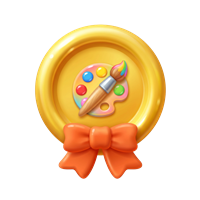
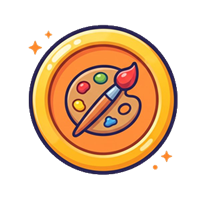
Use the smiling star, smiling flame and new bow-free badges
Points and streak use the glossy smiling star and flame; the eight badges and the
badge counter are redrawn as round glossy medals without bows, on every page.

diff --git a/forest.html b/forest.html
@@ -54,11 +54,11 @@ body { font-family: 'Thmanyah Sans', system-ui, sans-serif; color: #3A2318; }
 
 <span title="الوقت المتبقي اليوم" style="display: flex; align-items: center; gap: 6px; background: #FFFFFF; border-radius: 999px; padding: 0 14px; height: 46px; font-weight: 800; font-size: 18px; box-shadow: 0 4px 0 #B9DDA6; color: #2D6A12;"><img src="img/forest/I-10.png" alt="" style="width: 30px; height: 30px; margin: -4px 0;">35 د</span>
 
-<span title="النقاط" style="display: flex; align-items: center; gap: 6px; background: #FFFFFF; border-radius: 999px; padding: 0 14px; height: 46px; font-weight: 800; font-size: 18px; box-shadow: 0 4px 0 #B9DDA6; color: #3A2318;"><img src="img/forest/I-06.png" alt="" style="width: 30px; height: 30px; margin: -4px 0;">3,240</span>
+<span title="النقاط" style="display: flex; align-items: center; gap: 6px; background: #FFFFFF; border-radius: 999px; padding: 0 14px; height: 46px; font-weight: 800; font-size: 18px; box-shadow: 0 4px 0 #B9DDA6; color: #3A2318;"><img src="img/hud/points.png" alt="" style="width: 30px; height: 30px; margin: -4px 0;">3,240</span>
 
-<span title="أيام متتالية" style="display: flex; align-items: center; gap: 6px; background: #FFFFFF; border-radius: 999px; padding: 0 14px; height: 46px; font-weight: 800; font-size: 18px; box-shadow: 0 4px 0 #B9DDA6; color: #3A2318;"><img src="img/forest/I-07.png" alt="" style="width: 30px; height: 30px; margin: -4px 0;">5</span>
+<span title="أيام متتالية" style="display: flex; align-items: center; gap: 6px; background: #FFFFFF; border-radius: 999px; padding: 0 14px; height: 46px; font-weight: 800; font-size: 18px; box-shadow: 0 4px 0 #B9DDA6; color: #3A2318;"><img src="img/hud/streak.png" alt="" style="width: 30px; height: 30px; margin: -4px 0;">5</span>
 
-<span title="الشارات" style="display: flex; align-items: center; gap: 6px; background: #FFFFFF; border-radius: 999px; padding: 0 14px; height: 46px; font-weight: 800; font-size: 18px; box-shadow: 0 4px 0 #B9DDA6; color: #3A2318;"><img src="img/forest/S-01.png" alt="" style="width: 30px; height: 30px; margin: -4px 0;">12</span>
+<span title="الشارات" style="display: flex; align-items: center; gap: 6px; background: #FFFFFF; border-radius: 999px; padding: 0 14px; height: 46px; font-weight: 800; font-size: 18px; box-shadow: 0 4px 0 #B9DDA6; color: #3A2318;"><img src="img/hud/badge.png" alt="" style="width: 30px; height: 30px; margin: -4px 0;">12</span>
 
 </div>
 </header>

diff --git a/leaders.html b/leaders.html
@@ -88,13 +88,13 @@
   const MEDAL = ['#F2A900', '#A7B1BD', '#D0874A'];
   const top = (p, i) => `<div class="top card ${['first', 'second', 'third'][i]}" style="--m:${MEDAL[i]}">
     <span class="face"><img src="img/avatars/${p.avatar}.png" alt=""><span aria-label="المركز ${ar(p.rank)}">${ar(p.rank)}</span></span>
-    <b>${p.name}</b><span class="xp"><img src="img/I-06.png" alt="">${num(p.xp)}</span>
+    <b>${p.name}</b><span class="xp"><img src="img/hud/points.png" alt="">${num(p.xp)}</span>
     <img class="bdg" src="img/badges/${p.badge}.png" alt="شارة ${badge(p.badge)}"></div>`;
   // read in order 1, 2, 3; shown right to left as second, first, third
   const mine = { rank: ME_RANK, name: me.name, avatar: me.avatar, xp: me.xp, badge: 'S-06' };
   document.getElementById('podium').innerHTML = LEADERS.slice(0, 3).map((p, i) => top(p.rank === ME_RANK ? mine : p, i)).join('');
   const row = (p, mine) => `<li class="${mine ? 'me' : ''}" ${mine ? 'aria-current="true"' : ''}><span class="n">${ar(p.rank)}</span><img class="av" src="img/avatars/${p.avatar}.png" alt="">
-    <b>${p.name}</b><span class="xp"><img src="img/I-06.png" alt="">${num(p.xp)}</span>${p.badge ? `<img class="bdg" src="img/badges/${p.badge}.png" alt="شارة ${badge(p.badge)}">` : '<span></span>'}</li>`;
+    <b>${p.name}</b><span class="xp"><img src="img/hud/points.png" alt="">${num(p.xp)}</span>${p.badge ? `<img class="bdg" src="img/badges/${p.badge}.png" alt="شارة ${badge(p.badge)}">` : '<span></span>'}</li>`;
   // the top ten, then the child's own place with the one just above when it is further down; a child in the top ten is lit in place
   const top10 = LEADERS.slice(3, 10).map((p) => (p.rank === ME_RANK ? row(mine, true) : row(p))).join('');
   const below = ME_RANK > 10 ? `${ME_RANK > 11 ? '<li class="gap" aria-hidden="true">…</li>' : ''}${LEADERS[ME_RANK - 2] && ME_RANK > 11 ? row(LEADERS[ME_RANK - 2]) : ''}${row(mine, true)}` : '';

diff --git a/value.html b/value.html
@@ -127,8 +127,8 @@ main { position: relative; z-index: 2; margin: -30px 0 0; padding: 0 80px 150px;
     <a class="pill back" href="garden.html"><svg width="22" height="22" viewBox="0 0 24 24" fill="none" stroke="currentColor" stroke-width="2.6" stroke-linecap="round" stroke-linejoin="round" aria-hidden="true"><path d="M9 6l6 6-6 6"/></svg><span>حديقة القيم</span></a>
     <div class="stats">
       <span class="pill" title="الوقت المتبقي اليوم" style="color:#2D6A12"><img src="img/forest/I-10.png" alt="">35 د</span>
-      <span class="pill" title="النقاط"><img src="img/forest/I-06.png" alt="">3,240</span>
-      <span class="pill" title="الشارات"><img src="img/forest/S-01.png" alt="">6</span>
+      <span class="pill" title="النقاط"><img src="img/hud/points.png" alt="">3,240</span>
+      <span class="pill" title="الشارات"><img src="img/hud/badge.png" alt="">6</span>
     </div>
   </div>
   <div class="head"><span class="kicker">رحلة قيمة مع نور</span><h1 id="title"></h1><p id="about"></p></div>
@@ -208,7 +208,7 @@ main { position: relative; z-index: 2; margin: -30px 0 0; padding: 0 80px 150px;
     $('party-t').textContent = `أزهرت شجرة ${v.name}!`;
     $('party-p').textContent = v.done;
     // XP and the badge come from gamification when completing a value is eligible
-    $('gains').innerHTML = `<span class="gain"><img src="img/forest/I-06.png" alt="">+${ar(XP)} نقطة</span>${v.badge ? `<span class="gain"><img src="img/forest/S-01.png" alt="">شارة جديدة: ${v.badge}</span>` : ''}`;
+    $('gains').innerHTML = `<span class="gain"><img src="img/hud/points.png" alt="">+${ar(XP)} نقطة</span>${v.badge ? `<span class="gain"><img src="img/hud/badge.png" alt="">شارة جديدة: ${v.badge}</span>` : ''}`;
     $('party').hidden = false; $('party-x').focus();
     window.Sfx?.play('win'); burst();
   }

diff --git a/room.html b/room.html
@@ -196,8 +196,8 @@ dialog input[type=text]:focus { outline: none; border-color: var(--accent); }
     $('nums').innerHTML = `<div class="num card"><span class="k"><img src="img/I-08.png" alt="">المستوى ${ar(me.level)}</span>
         <span class="lvl-bar" role="progressbar" aria-valuemin="0" aria-valuemax="100" aria-valuenow="${pct}" aria-label="التقدم نحو المستوى ${ar(me.level + 1)}"><i style="width:${pct}%"></i></span>
         <small>باقي ${num(me.to - me.xp)} نقطة للوصول إلى المستوى ${ar(me.level + 1)}</small></div>
-      <div class="num card"><span class="k"><img src="img/I-06.png" alt="">مجموع نقاطي</span><span class="v">${num(me.xp)}</span></div>
-      <div class="num card"><span class="k"><img src="img/I-07.png" alt="">أيام متتالية</span><span class="v">${ar(me.streak)}</span></div>`;
+      <div class="num card"><span class="k"><img src="img/hud/points.png" alt="">مجموع نقاطي</span><span class="v">${num(me.xp)}</span></div>
+      <div class="num card"><span class="k"><img src="img/hud/streak.png" alt="">أيام متتالية</span><span class="v">${ar(me.streak)}</span></div>`;
     const got = BADGES.filter((b) => b.got).length;
     $('badges-t').textContent = `شاراتي (${ar(got)} من ${ar(BADGES.length)})`;
     $('badges').innerHTML = BADGES.map((b) => `<div class="badge card ${b.got ? '' : 'no'}"><img src="img/badges/${b.id}.png" alt="">

diff --git a/beach.html b/beach.html
@@ -101,9 +101,9 @@ main { position: relative; z-index: 2; margin: -30px 0 0; padding: 0 80px 150px;
     <a class="pill back" href="index.html"><svg width="22" height="22" viewBox="0 0 24 24" fill="none" stroke="currentColor" stroke-width="2.6" stroke-linecap="round" stroke-linejoin="round" aria-hidden="true"><path d="M9 6l6 6-6 6"/></svg><span>العودة إلى الخريطة</span></a>
     <div class="stats">
       <span class="pill" title="الوقت المتبقي اليوم" style="color:#2D6A12"><img src="img/forest/I-10.png" alt="">35 د</span>
-      <span class="pill" title="النقاط"><img src="img/forest/I-06.png" alt="">3,240</span>
-      <span class="pill" title="أيام متتالية"><img src="img/forest/I-07.png" alt="">5</span>
-      <span class="pill" title="الشارات"><img src="img/forest/S-01.png" alt="">6</span>
+      <span class="pill" title="النقاط"><img src="img/hud/points.png" alt="">3,240</span>
+      <span class="pill" title="أيام متتالية"><img src="img/hud/streak.png" alt="">5</span>
+      <span class="pill" title="الشارات"><img src="img/hud/badge.png" alt="">6</span>
     </div>
   </div>
   <img class="isle" src="img/beach.png" alt="السلحفاة سلمى على جزيرة شاطئ الحكايات">

diff --git a/quran.html b/quran.html
@@ -97,9 +97,9 @@ main { position: relative; z-index: 2; margin: -30px 0 0; padding: 0 80px 150px;
     <a class="pill back" href="index.html"><svg width="22" height="22" viewBox="0 0 24 24" fill="none" stroke="currentColor" stroke-width="2.6" stroke-linecap="round" stroke-linejoin="round" aria-hidden="true"><path d="M9 6l6 6-6 6"/></svg><span>العودة إلى الخريطة</span></a>
     <div class="stats">
       <span class="pill" title="الوقت المتبقي اليوم" style="color:#2D6A12"><img src="img/forest/I-10.png" alt="">35 د</span>
-      <span class="pill" title="النقاط"><img src="img/forest/I-06.png" alt="">3,240</span>
-      <span class="pill" title="أيام متتالية"><img src="img/forest/I-07.png" alt="">5</span>
-      <span class="pill" title="الشارات"><img src="img/forest/S-01.png" alt="">6</span>
+      <span class="pill" title="النقاط"><img src="img/hud/points.png" alt="">3,240</span>
+      <span class="pill" title="أيام متتالية"><img src="img/hud/streak.png" alt="">5</span>
+      <span class="pill" title="الشارات"><img src="img/hud/badge.png" alt="">6</span>
     </div>
   </div>
   <img class="isle" src="img/quran.png" alt="مصحف على حامل خشبي في واحة القرآن">

diff --git a/oasis.html b/oasis.html
@@ -99,9 +99,9 @@ main { position: relative; z-index: 2; margin: -30px 0 0; padding: 0 80px 150px;
     <a class="pill back" href="index.html"><svg width="22" height="22" viewBox="0 0 24 24" fill="none" stroke="currentColor" stroke-width="2.6" stroke-linecap="round" stroke-linejoin="round" aria-hidden="true"><path d="M9 6l6 6-6 6"/></svg><span>العودة إلى الخريطة</span></a>
     <div class="stats">
       <span class="pill" title="الوقت المتبقي اليوم" style="color:#2D6A12"><img src="img/forest/I-10.png" alt="">35 د</span>
-      <span class="pill" title="النقاط"><img src="img/forest/I-06.png" alt="">3,240</span>
-      <span class="pill" title="أيام متتالية"><img src="img/forest/I-07.png" alt="">5</span>
-      <span class="pill" title="الشارات"><img src="img/forest/S-01.png" alt="">6</span>
+      <span class="pill" title="النقاط"><img src="img/hud/points.png" alt="">3,240</span>
+      <span class="pill" title="أيام متتالية"><img src="img/hud/streak.png" alt="">5</span>
+      <span class="pill" title="الشارات"><img src="img/hud/badge.png" alt="">6</span>
     </div>
   </div>
   <img class="isle" src="img/letters.png" alt="الجمل جمّول في واحة الحروف">

diff --git a/colors.html b/colors.html
@@ -114,9 +114,9 @@ h2.sec small { font-size: 17px; font-weight: 700; color: var(--ink-soft); }
     <a class="pill back" href="index.html"><svg width="22" height="22" viewBox="0 0 24 24" fill="none" stroke="currentColor" stroke-width="2.6" stroke-linecap="round" stroke-linejoin="round" aria-hidden="true"><path d="M9 6l6 6-6 6"/></svg><span>العودة إلى الخريطة</span></a>
     <div class="stats">
       <span class="pill" title="الوقت المتبقي اليوم" style="color:#2D6A12"><img src="img/forest/I-10.png" alt="">35 د</span>
-      <span class="pill" title="النقاط"><img src="img/forest/I-06.png" alt="">3,240</span>
-      <span class="pill" title="أيام متتالية"><img src="img/forest/I-07.png" alt="">5</span>
-      <span class="pill" title="الشارات"><img src="img/forest/S-01.png" alt="">6</span>
+      <span class="pill" title="النقاط"><img src="img/hud/points.png" alt="">3,240</span>
+      <span class="pill" title="أيام متتالية"><img src="img/hud/streak.png" alt="">5</span>
+      <span class="pill" title="الشارات"><img src="img/hud/badge.png" alt="">6</span>
     </div>
   </div>
   <img class="isle" src="img/colors.png" alt="القطة مشمش في وادي الألوان">

diff --git a/games.html b/games.html
@@ -161,9 +161,9 @@ h2.sec { margin: 0 0 14px; font-size: 30px; font-weight: 800; }
     <a class="pill back" href="index.html"><svg width="22" height="22" viewBox="0 0 24 24" fill="none" stroke="currentColor" stroke-width="2.6" stroke-linecap="round" stroke-linejoin="round" aria-hidden="true"><path d="M9 6l6 6-6 6"/></svg><span>العودة إلى الخريطة</span></a>
     <div class="stats">
       <span class="pill" title="الوقت المتبقي اليوم" style="color:#2D6A12"><img src="img/forest/I-10.png" alt="">35 د</span>
-      <span class="pill" title="النقاط"><img src="img/forest/I-06.png" alt="">3,240</span>
-      <span class="pill" title="أيام متتالية"><img src="img/forest/I-07.png" alt="">5</span>
-      <span class="pill" title="الشارات"><img src="img/forest/S-01.png" alt="">6</span>
+      <span class="pill" title="النقاط"><img src="img/hud/points.png" alt="">3,240</span>
+      <span class="pill" title="أيام متتالية"><img src="img/hud/streak.png" alt="">5</span>
+      <span class="pill" title="الشارات"><img src="img/hud/badge.png" alt="">6</span>
     </div>
   </div>
   <img class="isle" src="img/games.png" alt="الثعلب فنّوش في كثبان الألعاب">

diff --git a/garden.html b/garden.html
@@ -111,9 +111,9 @@ main { position: relative; z-index: 2; margin: -40px 0 0; padding: 0 80px 150px;
     <a class="pill back" href="index.html"><svg width="22" height="22" viewBox="0 0 24 24" fill="none" stroke="currentColor" stroke-width="2.6" stroke-linecap="round" stroke-linejoin="round" aria-hidden="true"><path d="M9 6l6 6-6 6"/></svg><span>العودة إلى الخريطة</span></a>
     <div class="stats">
       <span class="pill" title="الوقت المتبقي اليوم" style="color:#2D6A12"><img src="img/forest/I-10.png" alt="">35 د</span>
-      <span class="pill" title="النقاط"><img src="img/forest/I-06.png" alt="">3,240</span>
-      <span class="pill" title="أيام متتالية"><img src="img/forest/I-07.png" alt="">5</span>
-      <span class="pill" title="الشارات"><img src="img/forest/S-01.png" alt="">6</span>
+      <span class="pill" title="النقاط"><img src="img/hud/points.png" alt="">3,240</span>
+      <span class="pill" title="أيام متتالية"><img src="img/hud/streak.png" alt="">5</span>
+      <span class="pill" title="الشارات"><img src="img/hud/badge.png" alt="">6</span>
     </div>
   </div>
   <img class="isle" src="img/garden.png" alt="نور في حديقة القيم">

diff --git a/index.html b/index.html
@@ -179,9 +179,9 @@ button:focus-visible, a:focus-visible { outline: 3px solid var(--ink); outline-o
     <button type="button" class="pill me" id="me" aria-label="غرفتي: يوسف، المستوى 7"><img src="img/avatar.png" alt=""><span class="name">يوسف</span><span class="lvl"><img src="img/I-08.png" alt="">مستوى 7</span></button>
     <div class="stats">
       <button type="button" class="pill search" aria-label="ابحث"><img src="img/I-05.png" alt=""></button>
-      <span class="pill" title="النقاط"><img src="img/I-06.png" alt="">3,240</span>
-      <span class="pill" title="أيام متتالية"><img src="img/I-07.png" alt="">5</span>
-      <span class="pill" title="الشارات"><img src="img/badge.png" alt="">6</span>
+      <span class="pill" title="النقاط"><img src="img/hud/points.png" alt="">3,240</span>
+      <span class="pill" title="أيام متتالية"><img src="img/hud/streak.png" alt="">5</span>
+      <span class="pill" title="الشارات"><img src="img/hud/badge.png" alt="">6</span>
       <button type="button" class="pill bell" aria-label="الإشعارات، 3 غير مقروءة"><img src="img/I-09.png" alt=""><b>3</b></button>
     </div>
   </div>

diff --git a/quiz.html b/quiz.html
@@ -184,7 +184,7 @@
     panel.innerHTML = `<img class="falcon" src="img/peak/${r.right >= Math.ceil(r.of / 2) ? 'f-trophy' : 'f-wave'}.png" alt="">
       <h2>${late ? 'أرسلنا إجاباتك التي اخترتها قبل أن تخرج' : !fresh ? 'نتيجتك في هذه المسابقة' : r.right ? 'أحسنت يا يوسف! وصلت إجاباتك' : 'شكراً لمشاركتك يا يوسف!'}</h2>
       <div class="score"><b>${ar(r.score)}</b> من ١٠٠</div>
-      <div class="facts"><span>✓ ${ar(r.right)} من ${ar(r.of)} إجابات صحيحة</span>${fresh ? `<span class="gain"><img src="img/forest/I-06.png" alt="">+${ar(XP)} نقاط للمشاركة</span>` : ''}</div>
+      <div class="facts"><span>✓ ${ar(r.right)} من ${ar(r.of)} إجابات صحيحة</span>${fresh ? `<span class="gain"><img src="img/hud/points.png" alt="">+${ar(XP)} نقاط للمشاركة</span>` : ''}</div>
       <p>تُحسب النتيجة بصحة الإجابات وسرعتها.</p>
       <div class="btns"><a class="btn go" href="peak.html">العودة إلى القمة</a></div>`;
     if (fresh) Sfx.play('win');
